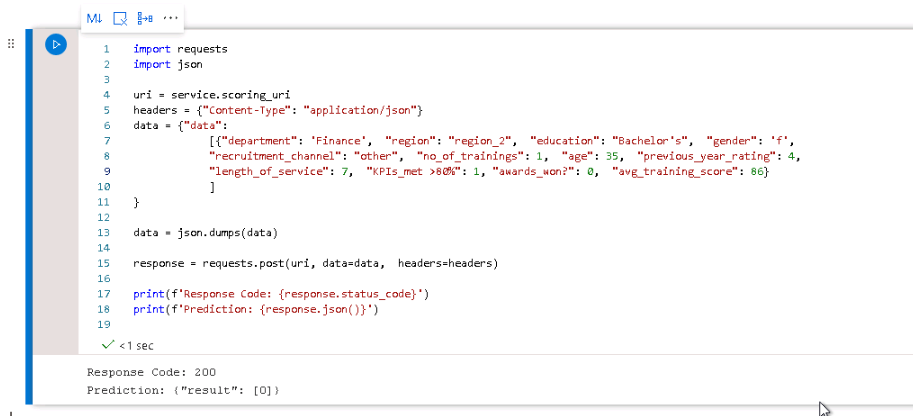
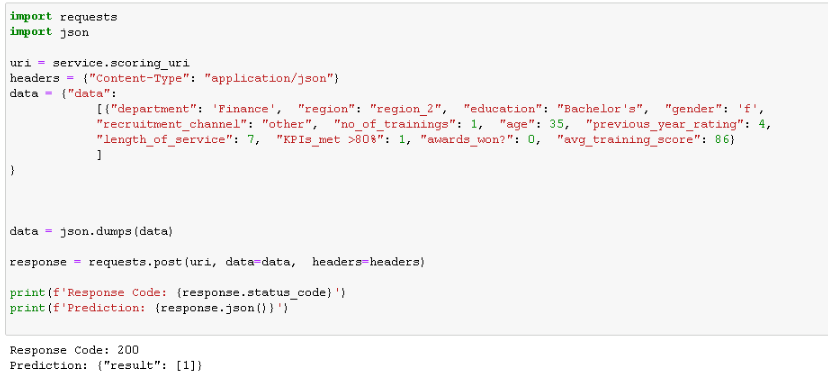
add missing criteria

Changed region(s): [[0.0, 0.0, 1.0, 1.0]]

diff --git a/ML_eng_with_azure/capstone_project/README.md b/ML_eng_with_azure/capstone_project/README.md
@@ -34,19 +34,26 @@ Once the model was registered, we are able to access it from our workspace by na
 <img src="img/2_dataset.png" height="280">
 
 ## Automated ML
-We first solved the task by using AutoML. 
-Our task is a classification task. 
-To optimize the running time we allowed AutoMl to stop early if a best score is found.
-We also allowed up to 3 parallel runs and limited the total run time to 30 minutes. 
-Finally we chose the weighted AUC as metric since it is an appropriate metric for the imbalanced task.
+We first solved the task by using AutoML.
+
+The following configurations were set:
+-  Our task is a classification task. 
+We used weighted AUC as optimization criteria since it is adequate for imbalanced problems. 
+- We set featurization to auto. Meaning autoMl will perform preprocessing such imputation and one hot encoding automatically. 
+- To optimize the running time we allowed early stopping if a best score is found. 
+The default behavior is to stop the experiment if there is no improvement in the last 10 iterations.
+This takes effect only after the 20th iteration.
+- We allowed up to 3 parallel runs at the time. 
+This could hurt the optimization process, but allows the run to finish faster.
+ - Because of the lab limitations we limited the total run of the experiment to  30 minutes.
 
 
 ### Results
 We submitted the run and monitor it with the run details widget.
 
-<img src="img/3_automl_submission.png" height="260">
+<img src="img/3_automl_submission.png" height="320">
 
-The best model found by AutoML was a voting ensemble with 0.90543 weighted AUC.
+The best model found by AutoML was a voting ensemble with 0.9055 weighted AUC.
 
 <img src="img/4_automl_best_model.png" height="310">
 
@@ -56,7 +63,9 @@ The resulting ensemble contains 9 different models with their respective weights
 <img src="img/5_automl_model_params.png" height="360">
 
 The resulting model is already very good. 
-We could try increasing the allowed time to run auto ML, but the performance increase would be probably minimal.
+We could try increasing the allowed time to run auto ML or the number of runs to look before automatic termination is in place and see if this improves the model.
+ 
+
 
 ## Hyperparameter Tuning
 We created a training script which also cleans the data and fist an Adaboost model.
@@ -67,17 +76,23 @@ We randomly sampled the hyperparameters uniformly.
 The number of estimators in the ensemble was kept between 20 and 200, while the learning rate between 0,5 and 2.
 The task was to optimize the weighted AUC, so we can compare to AutoML results.
 
+We limited our tuns to 30 since we have limited time for the lab, and allowed 3 runs in parallel. 
+In any case, 30 is a good number to start in order to get a feeling is our parameter search space is sensible.
+
+We also activated early stopping based on median value. 
+The run will stop if the current model has AUC lower than the median AUC of all previous experiments. 
+
 ### Results
 We submitted the experiment and monitored it with the run details widget
 
 <img src="img/5_hyper_run_details.png" height="260">
 
-Our best model had a poor performance, the weighted AUC was 0.633. 
-The corresponding parameters were 154 estimators and a learning rate of 1.82.
+Our best model had a poor performance, the weighted AUC was 0.6324. 
+The corresponding parameters were 193 estimators and a learning rate of 1.67.
 
  <img src="img/6_hyper_best_run.png" height="280">
 
-We notice that the learning rate for the optimal model is close to our maximum boundary of the sampling spave (2).
+We notice that the learning rate and the number of estimators for the optimal model are close to our maximum boundary of the sampling space.
 This gives an indication that we should expand the sampling grid in the upper direction. 
 This could possible lead to better models.
 
@@ -86,12 +101,12 @@ We took the resulting model of the AutoML run and proceeded to deploy it as a RE
 The easiest way to deploy the model is by using the azure web console. 
 However, we decided to manually deploy via the python skd.
 
-To manuaally deploy a model we need the following:
+To manually deploy a model we need the following:
 - Registering the model (the pickle file containing the actual model)
 - Create an environment to run the model when performing inference. 
 AutoMl gives with every run a conda specification file we can use for this.
 - Create an entrypoint script used by the web service to process the input and make a prediction.
-AutoMl also porvides this file for every run.
+AutoMl also provides this file for every run.
 - Specify where is the model to be deployed and which resources are needed. 
 We chose ACI with 1GB memory and 1 cpu core.
 - Deploy the webservice using the configurations mentioned above.
@@ -99,7 +114,7 @@ We chose ACI with 1GB memory and 1 cpu core.
  <img src="img/7_service_deployment.png" height="330">
 
 After deployment, we need to wait some minutes until the service is ready for consumption.
-After that we can see the model marked as healty and get the entrypoint URI in the web console.
+After that we can see the model marked as healthy and get the entrypoint URI in the web console.
 
  <img src="img/7_healty_service.png" height="320">
 
@@ -110,7 +125,8 @@ The following image gives an example of how to make predictions with the API via
 
  <img src="img/8_service_query.png" height="280">
 
-In this case th example employee gets a response "0" meaning they will not get a promotion.
+In this case th example employee gets a response "1" meaning they will get a promotion. 
+The response code 200 indicates all went well with the request.
 
 ## Screen Recording
 We created a screencast explaining the model deployment process. 
